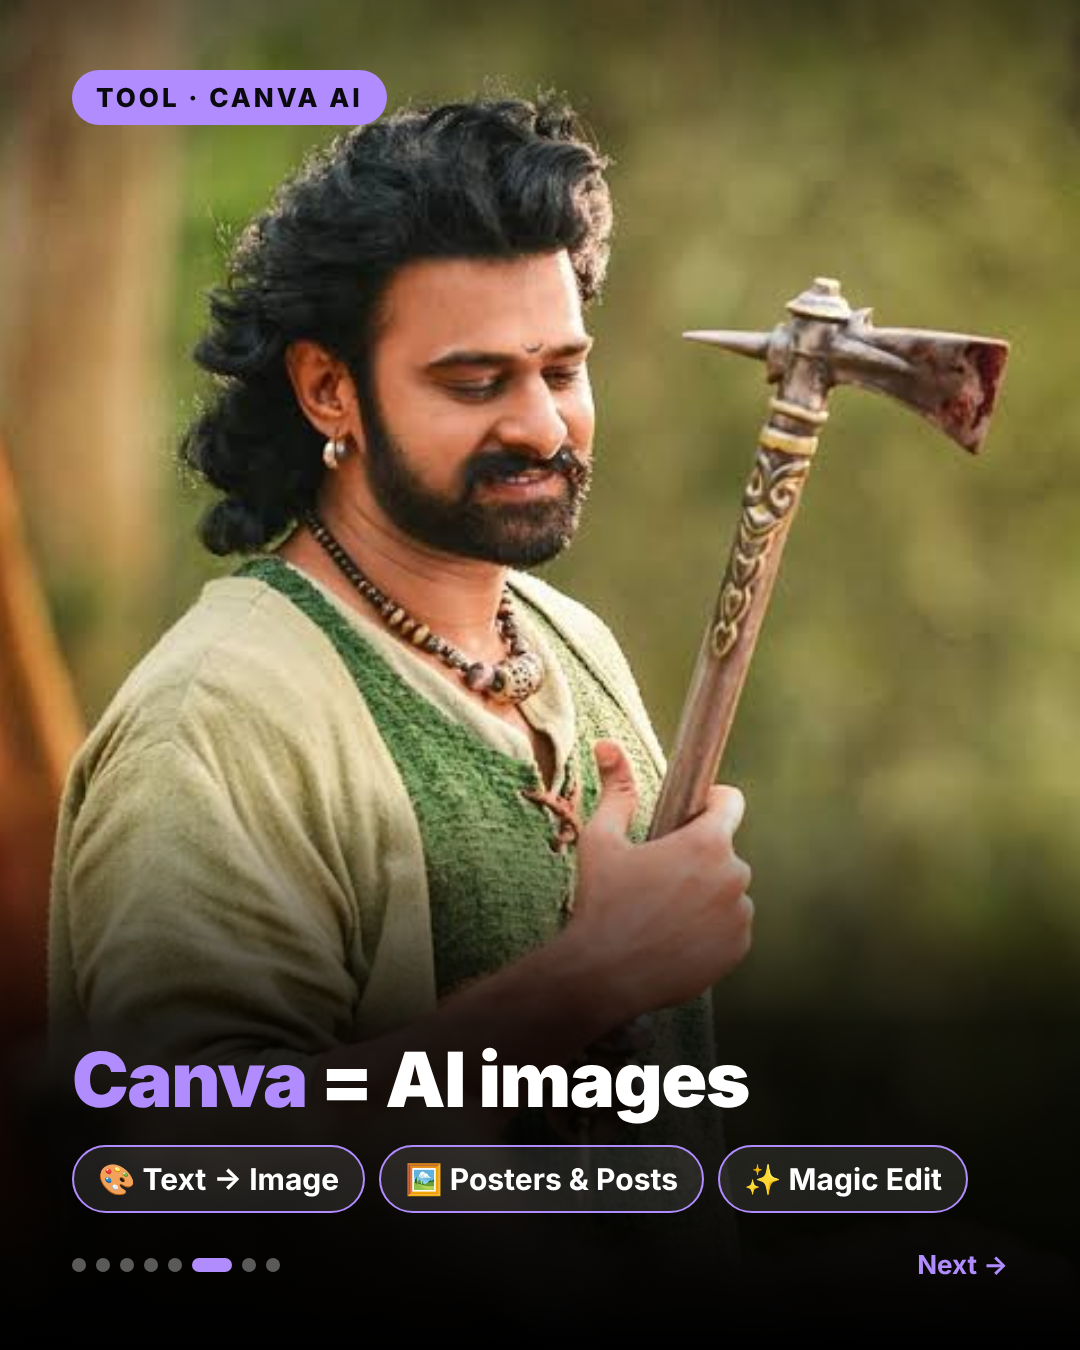
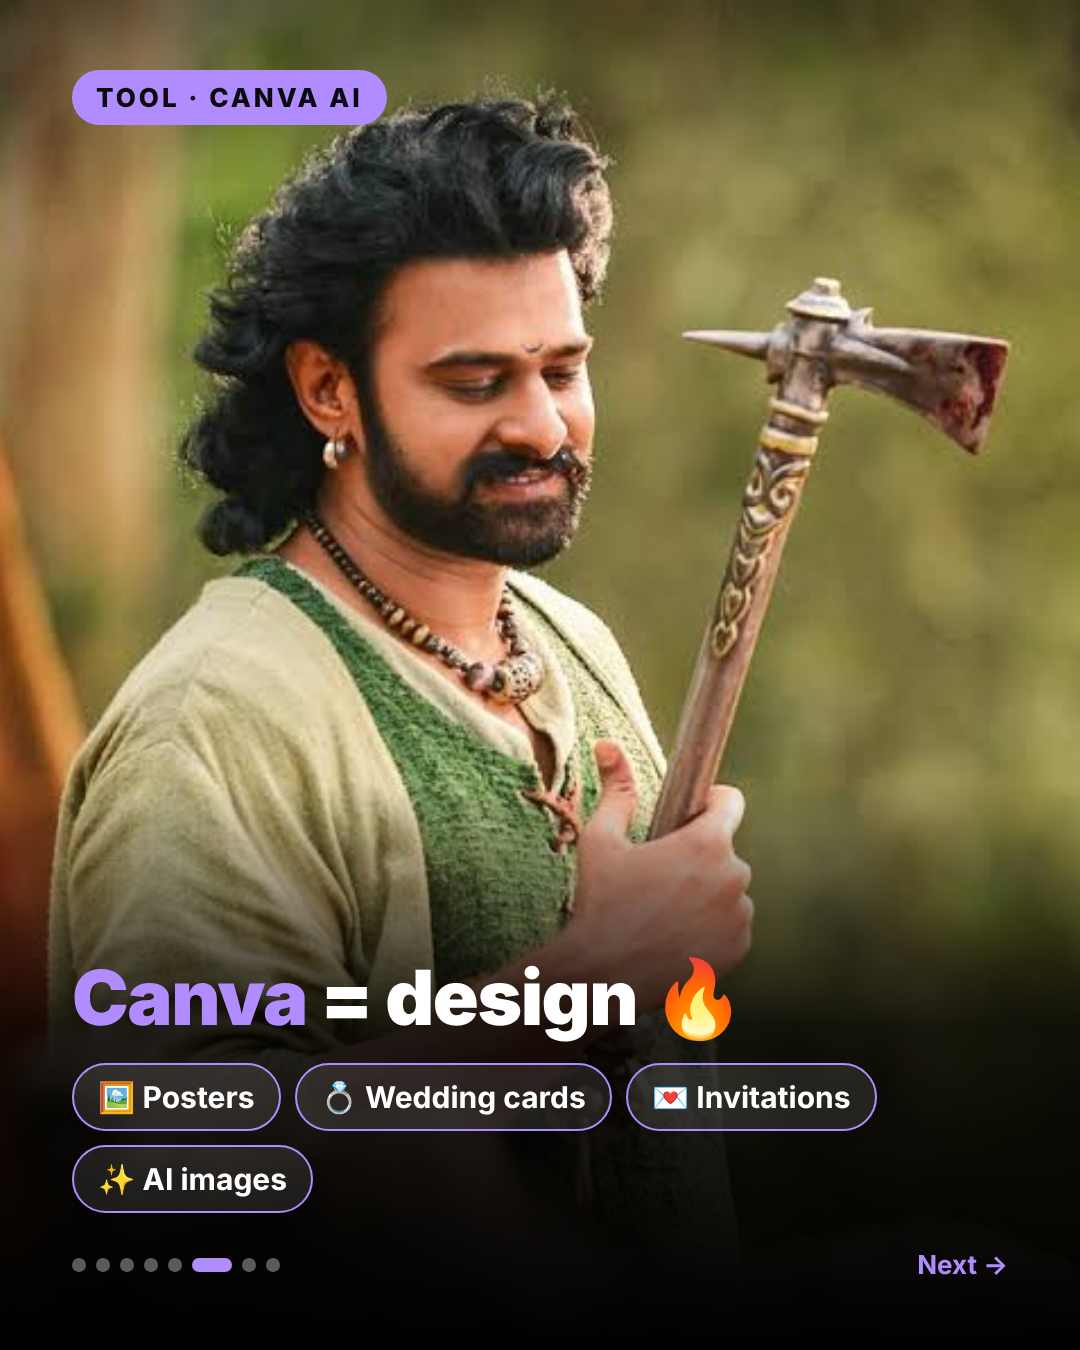
Carousel: Canva slide now covers posters, wedding cards & invitations
Claude-Session: https://claude.ai/code/session_01WMA397VEfozkovtyzdFbRr

Changed region(s): [[0.0611, 0.7156, 0.9167, 0.9022]]

diff --git a/carousel/index.html b/carousel/index.html
@@ -109,8 +109,8 @@
     <div class="inner">
       <span class="tag">Tool · Canva AI</span>
       <div class="bottom">
-        <h2><span class="accent">Canva</span> = AI images</h2>
-        <div class="chips"><span>🎨 Text → Image</span><span>🖼 Posters & Posts</span><span>✨ Magic Edit</span></div>
+        <h2><span class="accent">Canva</span> = design 🔥</h2>
+        <div class="chips"><span>🖼 Posters</span><span>💍 Wedding cards</span><span>💌 Invitations</span><span>✨ AI images</span></div>
       </div>
       <div class="footer"><div class="dots"><i></i><i></i><i></i><i></i><i></i><i class="on"></i><i></i><i></i></div><span class="swipe">Next →</span></div>
     </div>
@@ -136,7 +136,7 @@
         <h2>Right AI, <span class="accent">right job</span></h2>
         <div class="chips">
           <span><b>Write</b>Claude</span><span><b>Ideas</b>ChatGPT</span>
-          <span><b>Research</b>Gemini</span><span><b>Design</b>Canva</span><span><b>Video</b>Veo · Runway</span><span><b>Edit</b>CapCut</span>
+          <span><b>Research</b>Gemini</span><span><b>Cards</b>Canva</span><span><b>Video</b>Veo · Runway</span><span><b>Edit</b>CapCut</span>
         </div>
       </div>
       <div class="footer"><div class="dots"><i></i><i></i><i></i><i></i><i></i><i></i><i></i><i class="on"></i></div><span class="swipe">💾 Save · ➕ Follow</span></div>
